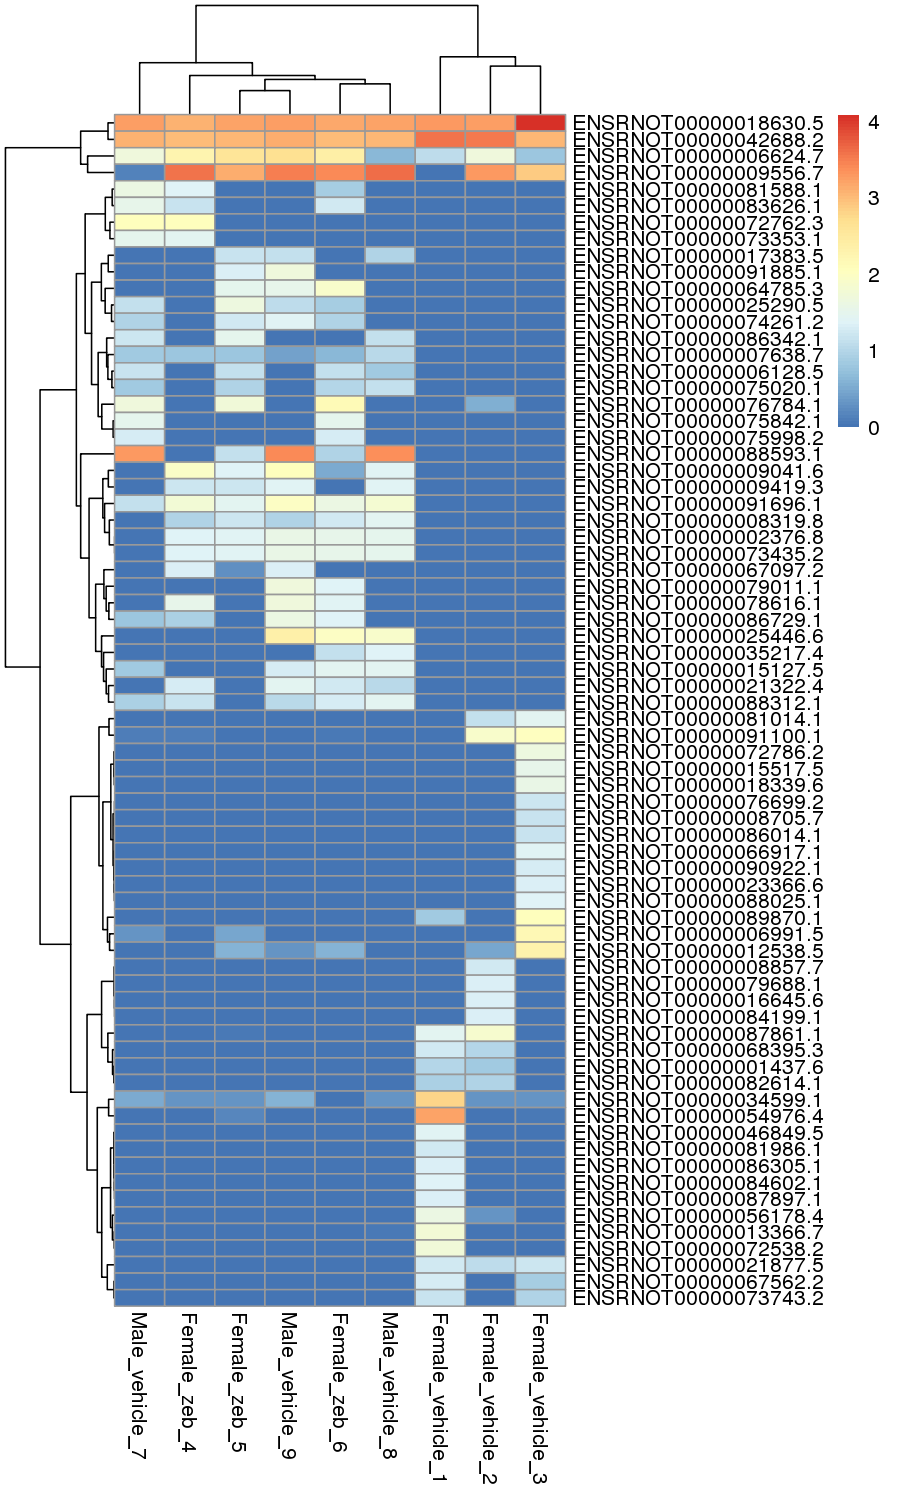
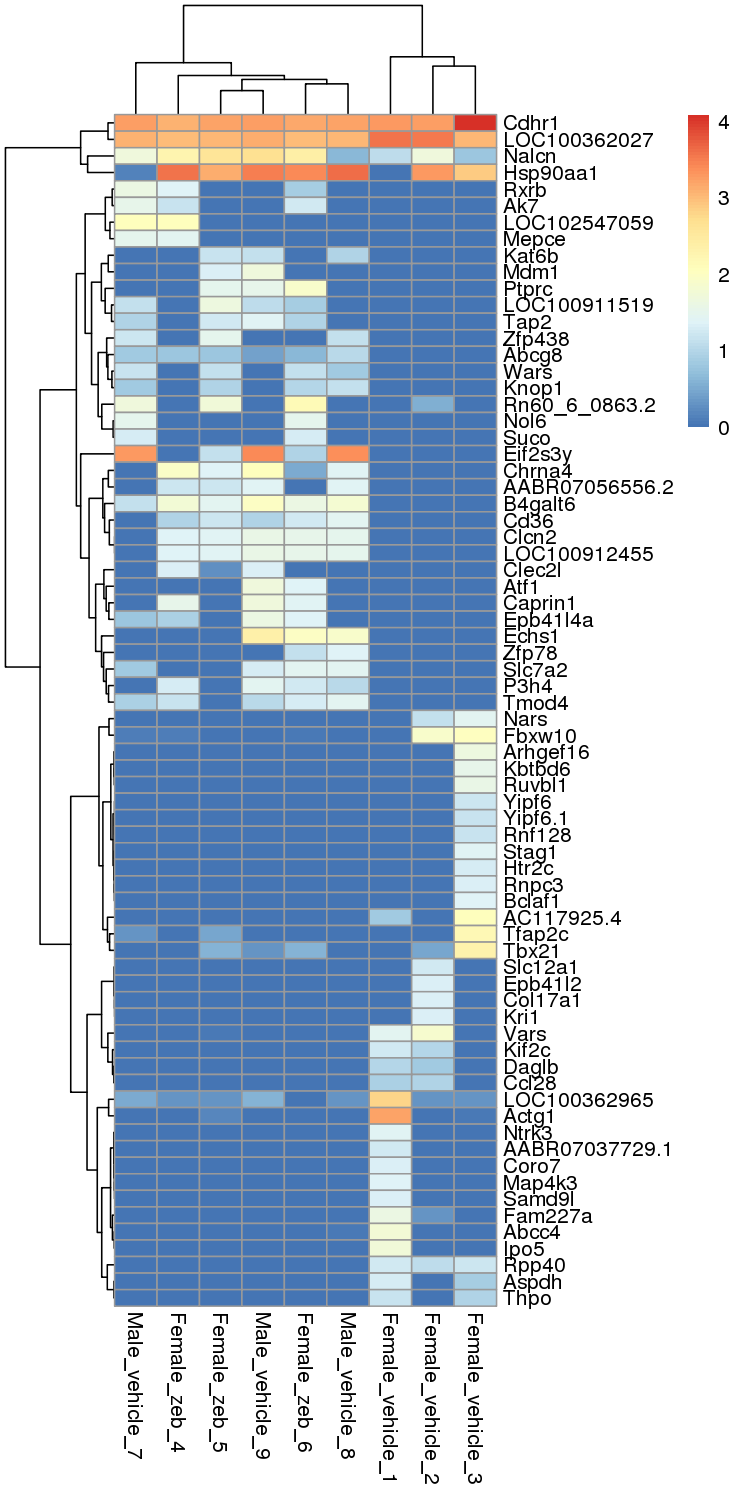
Gene names instead of ensemble ID

Changed region(s): [[0.0, 0.0, 0.9813, 1.0], [0.2147, 0.0, 0.2453, 0.0613]]

diff --git a/Data_Analysis/3_-_DE_genes_femaleVSfemaleZeb.md b/Data_Analysis/3_-_DE_genes_femaleVSfemaleZeb.md
@@ -243,22 +243,29 @@ Good, most genes are concordant
 gene_list <- output_results_TF %>% filter(concordant) %>% .$gene
 plot_heatmap <- subset(rnaseq, rownames(rnaseq) %in% gene_list) %>% select(-starts_with("male_zeb"))
 plot_heatmap <- log(plot_heatmap+1, base=10)
+
+labels <- rn6_gene %>%
+  filter(gene %in% gene_list) %>%
+  mutate(name = make.names(V7, unique = T)) %>%
+  arrange(gene)
+
+rownames(plot_heatmap) <- labels$name
 ```
 
 Color scale represents `log10(count+1)`
 
 
 ```r
-pheatmap(plot_heatmap, show_rownames = F, cluster_cols = hclust(as.dist(1-cor(plot_heatmap, method = "spearman")), method = "ward.D2"), clustering_method = "ward.D2")
+pheatmap(plot_heatmap, show_rownames = T, cluster_cols = hclust(as.dist(1-cor(plot_heatmap, method = "spearman")), method = "ward.D2"), clustering_method = "ward.D2")
 ```
 
 ![](3_-_DE_genes_femaleVSfemaleZeb_files/figure-html/unnamed-chunk-14-1.png)
 
-Try z-score normalization within rows
+Try z-score normalization within rows.
 
 
 ```r
-pheatmap(plot_heatmap, show_rownames = F, scale = "row", cluster_cols = hclust(as.dist(1-cor(plot_heatmap, method = "spearman")), method = "ward.D2"), clustering_method = "ward.D2")
+pheatmap(plot_heatmap, show_rownames = T, scale = "row", cluster_cols = hclust(as.dist(1-cor(plot_heatmap, method = "spearman")), method = "ward.D2"), clustering_method = "ward.D2")
 ```
 
 ![](3_-_DE_genes_femaleVSfemaleZeb_files/figure-html/unnamed-chunk-15-1.png)
